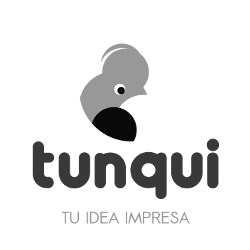
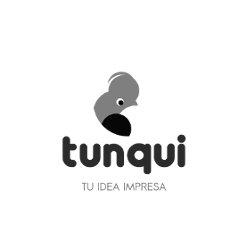
update sponsor

Changed region(s): [[0.112, 0.168, 0.896, 0.812], [0.504, 0.84, 0.756, 0.896], [0.252, 0.84, 0.476, 0.896]]

diff --git a/css/styles.css b/css/styles.css
@@ -4958,7 +4958,7 @@ input.field {
 
 /* line 65, ../scss/styles/_sponsors.scss */
 .sponsor-beeznest {
-  width: 250px;
+  width: 190px;
   background-image: url(../img/beeznest-grey.png);
 }
 /* line 68, ../scss/styles/_sponsors.scss */
@@ -4968,7 +4968,7 @@ input.field {
 
 /* line 65, ../scss/styles/_sponsors.scss */
 .sponsor-fragote {
-  width: 250px;
+  width: 190px;
   background-image: url(../img/fragote-grey.png);
 }
 /* line 68, ../scss/styles/_sponsors.scss */
@@ -4978,7 +4978,7 @@ input.field {
 
 /* line 65, ../scss/styles/_sponsors.scss */
 .sponsor-tunqui {
-  width: 250px;
+  width: 190px;
   background-image: url(../img/tunqui-grey.png);
 }
 /* line 68, ../scss/styles/_sponsors.scss */
@@ -4988,7 +4988,7 @@ input.field {
 
 /* line 65, ../scss/styles/_sponsors.scss */
 .sponsor-utec {
-  width: 250px;
+  width: 190px;
   background-image: url(../img/utec-grey.png);
 }
 /* line 68, ../scss/styles/_sponsors.scss */
